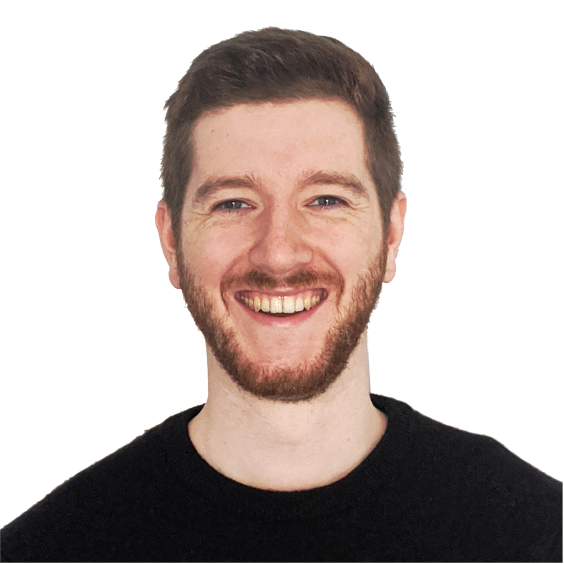
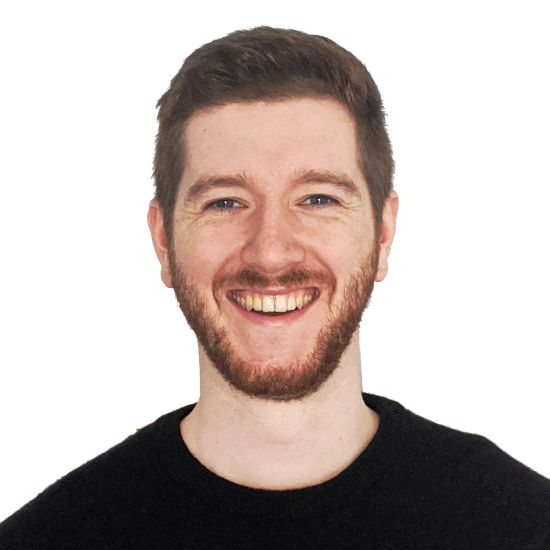
Adjust portraits

diff --git a/src/index.html b/src/index.html
@@ -66,7 +66,7 @@ meta_description: "OAreport is an open-source tool that analyzes papers covered 
         <article class="flex">
           <div class="margin-right">
             {% if person.img %}
-            <figure class="portrait portrait--circular" style="background-color: var(--{{ person.colour }});">
+            <figure class="portrait portrait--circular" style="background-color: var(--white);">
               <img src="../img/{{ person.img }}" alt="Portrait of {{ person.name }}"/>
             </figure>
             {% endif %}
